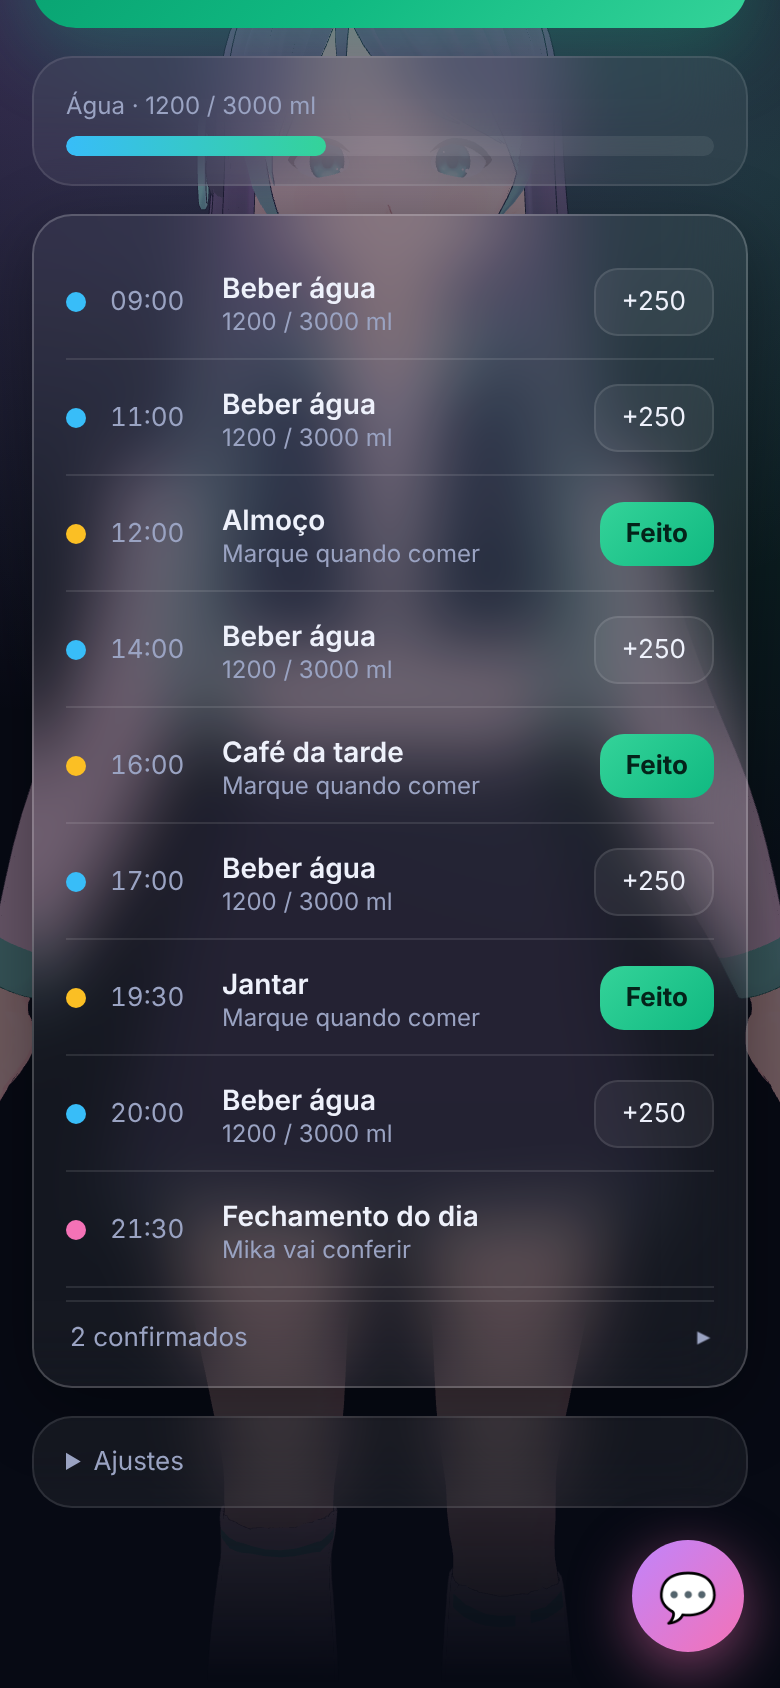
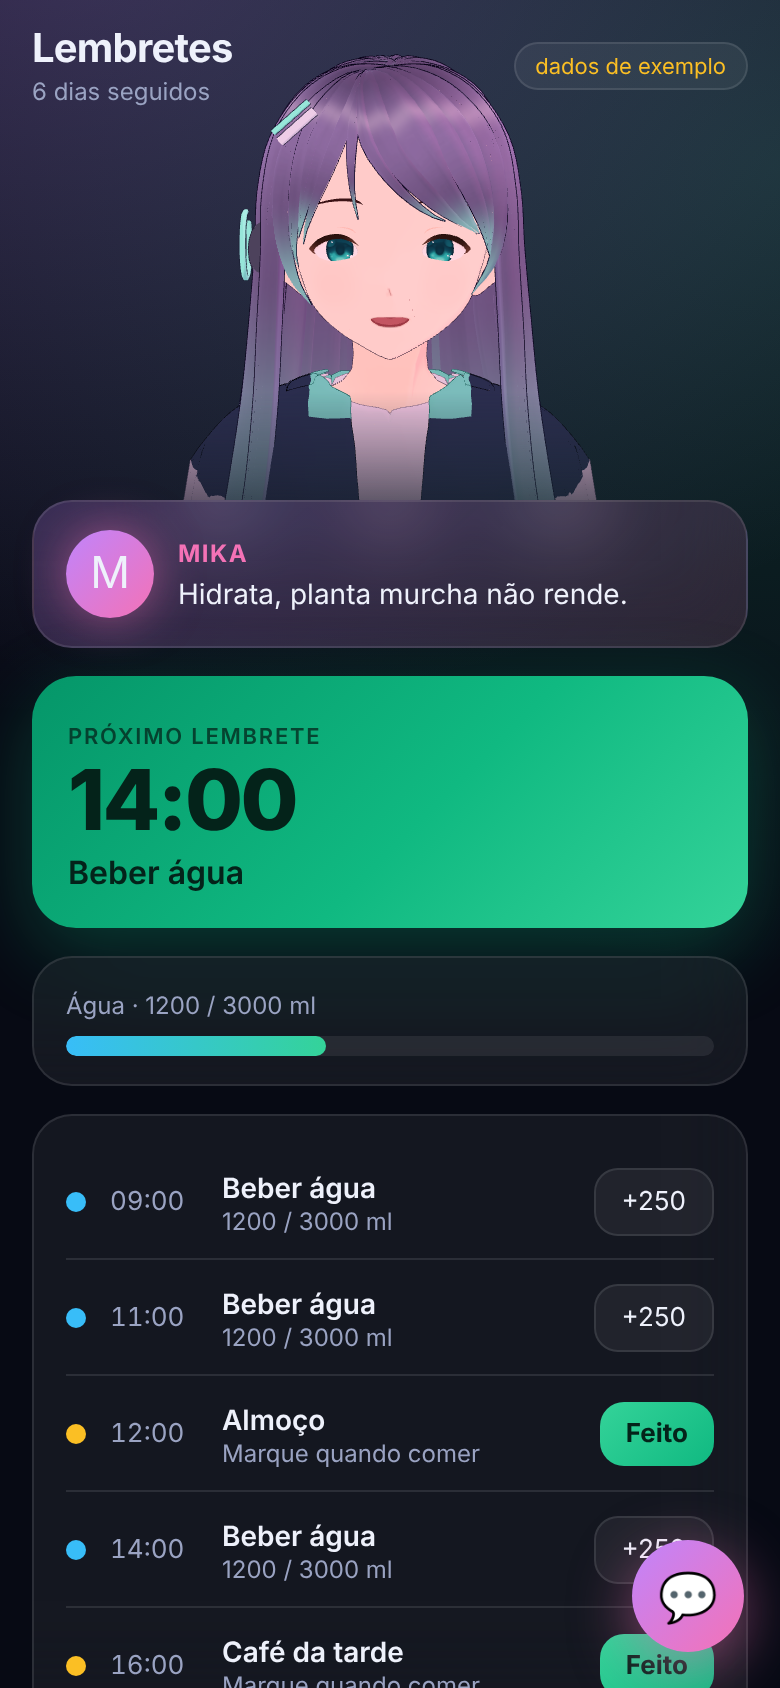
feat(lembretes): rosto da Mika livre no topo e boca sincronizada com o áudio
Claude-Session: https://claude.ai/code/session_01Cn6JQLKXu7PLS61LU6jjnp

diff --git a/lembretes/src/mika3d.ts b/lembretes/src/mika3d.ts
@@ -39,14 +39,17 @@ export class MikaBg {
       const t = clock.elapsedTime, dt = clock.getDelta();
       const head = vrm.humanoid.getNormalizedBoneNode('head');
       const hy = head ? head.getWorldPosition(new THREE.Vector3()).y : 1.4;
-      cam.position.set(0, hy - 0.2, 2.7); cam.lookAt(0, hy - 0.4, 0);
+      cam.position.set(0, hy + 0.04, 1.15); cam.lookAt(0, hy + 0.03, 0);
       this.look.position.set(this.mouse.x * 1.2, hy - this.mouse.y, 1.5);
       const spine = vrm.humanoid.getNormalizedBoneNode('chest'); if (spine) spine.rotation.x = Math.sin(t * 1.6) * 0.015;
       const em = vrm.expressionManager;
       if (em) {
         em.setValue('blink', Math.sin(t * 0.9) > 0.985 ? 1 : 0);
         em.setValue('happy', 0.25 + 0.1 * Math.sin(t * 0.5));
-        em.setValue('aa', this.speaking ? 0.25 + 0.35 * Math.abs(Math.sin(t * 11)) : 0);
+        const k = this.speaking ? 1 : 0;
+        em.setValue('aa', k * 0.55 * Math.max(0, Math.sin(t * 12)));
+        em.setValue('ih', k * 0.3 * Math.max(0, Math.sin(t * 7.3 + 1)));
+        em.setValue('ou', k * 0.3 * Math.max(0, Math.sin(t * 5.1 + 2)));
       }
       vrm.update(Math.min(dt, 1 / 30)); r.render(scene, cam);
     };

diff --git a/lembretes/src/style.css b/lembretes/src/style.css
@@ -30,7 +30,9 @@ details summary { cursor:pointer; color:var(--muted); font-size:13px; }
 body.widget .wrap { max-width: 340px; padding: 12px 12px 80px; gap:10px; } body.widget .next .t { font-size:32px; }
 
 /* v2: animações, cards, colapso, ajustes e fundo 3D */
-#mika-bg { position:fixed; inset:0; width:100%; height:100%; z-index:-1; opacity:.42; pointer-events:none; transition:opacity .6s; mask-image:linear-gradient(to top, transparent 0, #000 35%); }
+#mika-bg { position:fixed; top:0; left:0; width:100%; height:280px; z-index:0; opacity:1; pointer-events:none; transition:opacity .6s; mask-image:linear-gradient(to bottom, #000 70%, transparent); }
+body.hasbg .wrap { padding-top:250px; position:relative; z-index:1; }
+body.hasbg header { position:absolute; top:12px; left:16px; right:16px; }
 body.nobg #mika-bg { opacity:0; }
 .glass { transition:transform .25s, border-color .25s, box-shadow .25s; }
 .glass:hover { border-color:rgba(255,255,255,.2); box-shadow:0 10px 36px rgba(0,0,0,.35); }

diff --git a/lembretes/src/main.ts b/lembretes/src/main.ts
@@ -16,7 +16,7 @@ const val = (id: string): string => (document.getElementById(id) as HTMLInputEle
 
 const canvas = document.createElement('canvas'); canvas.id = 'mika-bg'; document.body.prepend(canvas);
 const bg = new MikaBg(canvas); bindSpeak((v) => bg.setSpeaking(v));
-const applyBg = (): void => { document.body.classList.toggle("nobg", !st.set.bg); };
+const applyBg = (): void => { document.body.classList.toggle("nobg", !st.set.bg); document.body.classList.toggle("hasbg", st.set.bg); };
 const render = (): void => { st.now = clock(); app.innerHTML = view(st); applyBg(); };
 
 async function refresh(): Promise<void> {

diff --git a/lembretes/src/notify.ts b/lembretes/src/notify.ts
@@ -16,6 +16,10 @@ export async function notify(r: Reminder, s: Settings): Promise<void> {
   const v = s.audio ? await mikaVoice().catch(() => null) : null;
   const body = v?.message ?? (await mikaLine(r.kind));
   if (v?.audio) play(v.audio);
+  else if (s.audio && 'speechSynthesis' in window) {
+    const u = new SpeechSynthesisUtterance(body); u.lang = 'pt-BR'; u.pitch = 1.4;
+    u.onstart = () => onSpeak(true); u.onend = u.onerror = () => onSpeak(false); speechSynthesis.speak(u);
+  }
   if (!s.notif) return;
   const title = `${r.time} · ${r.title}`;
   try {
